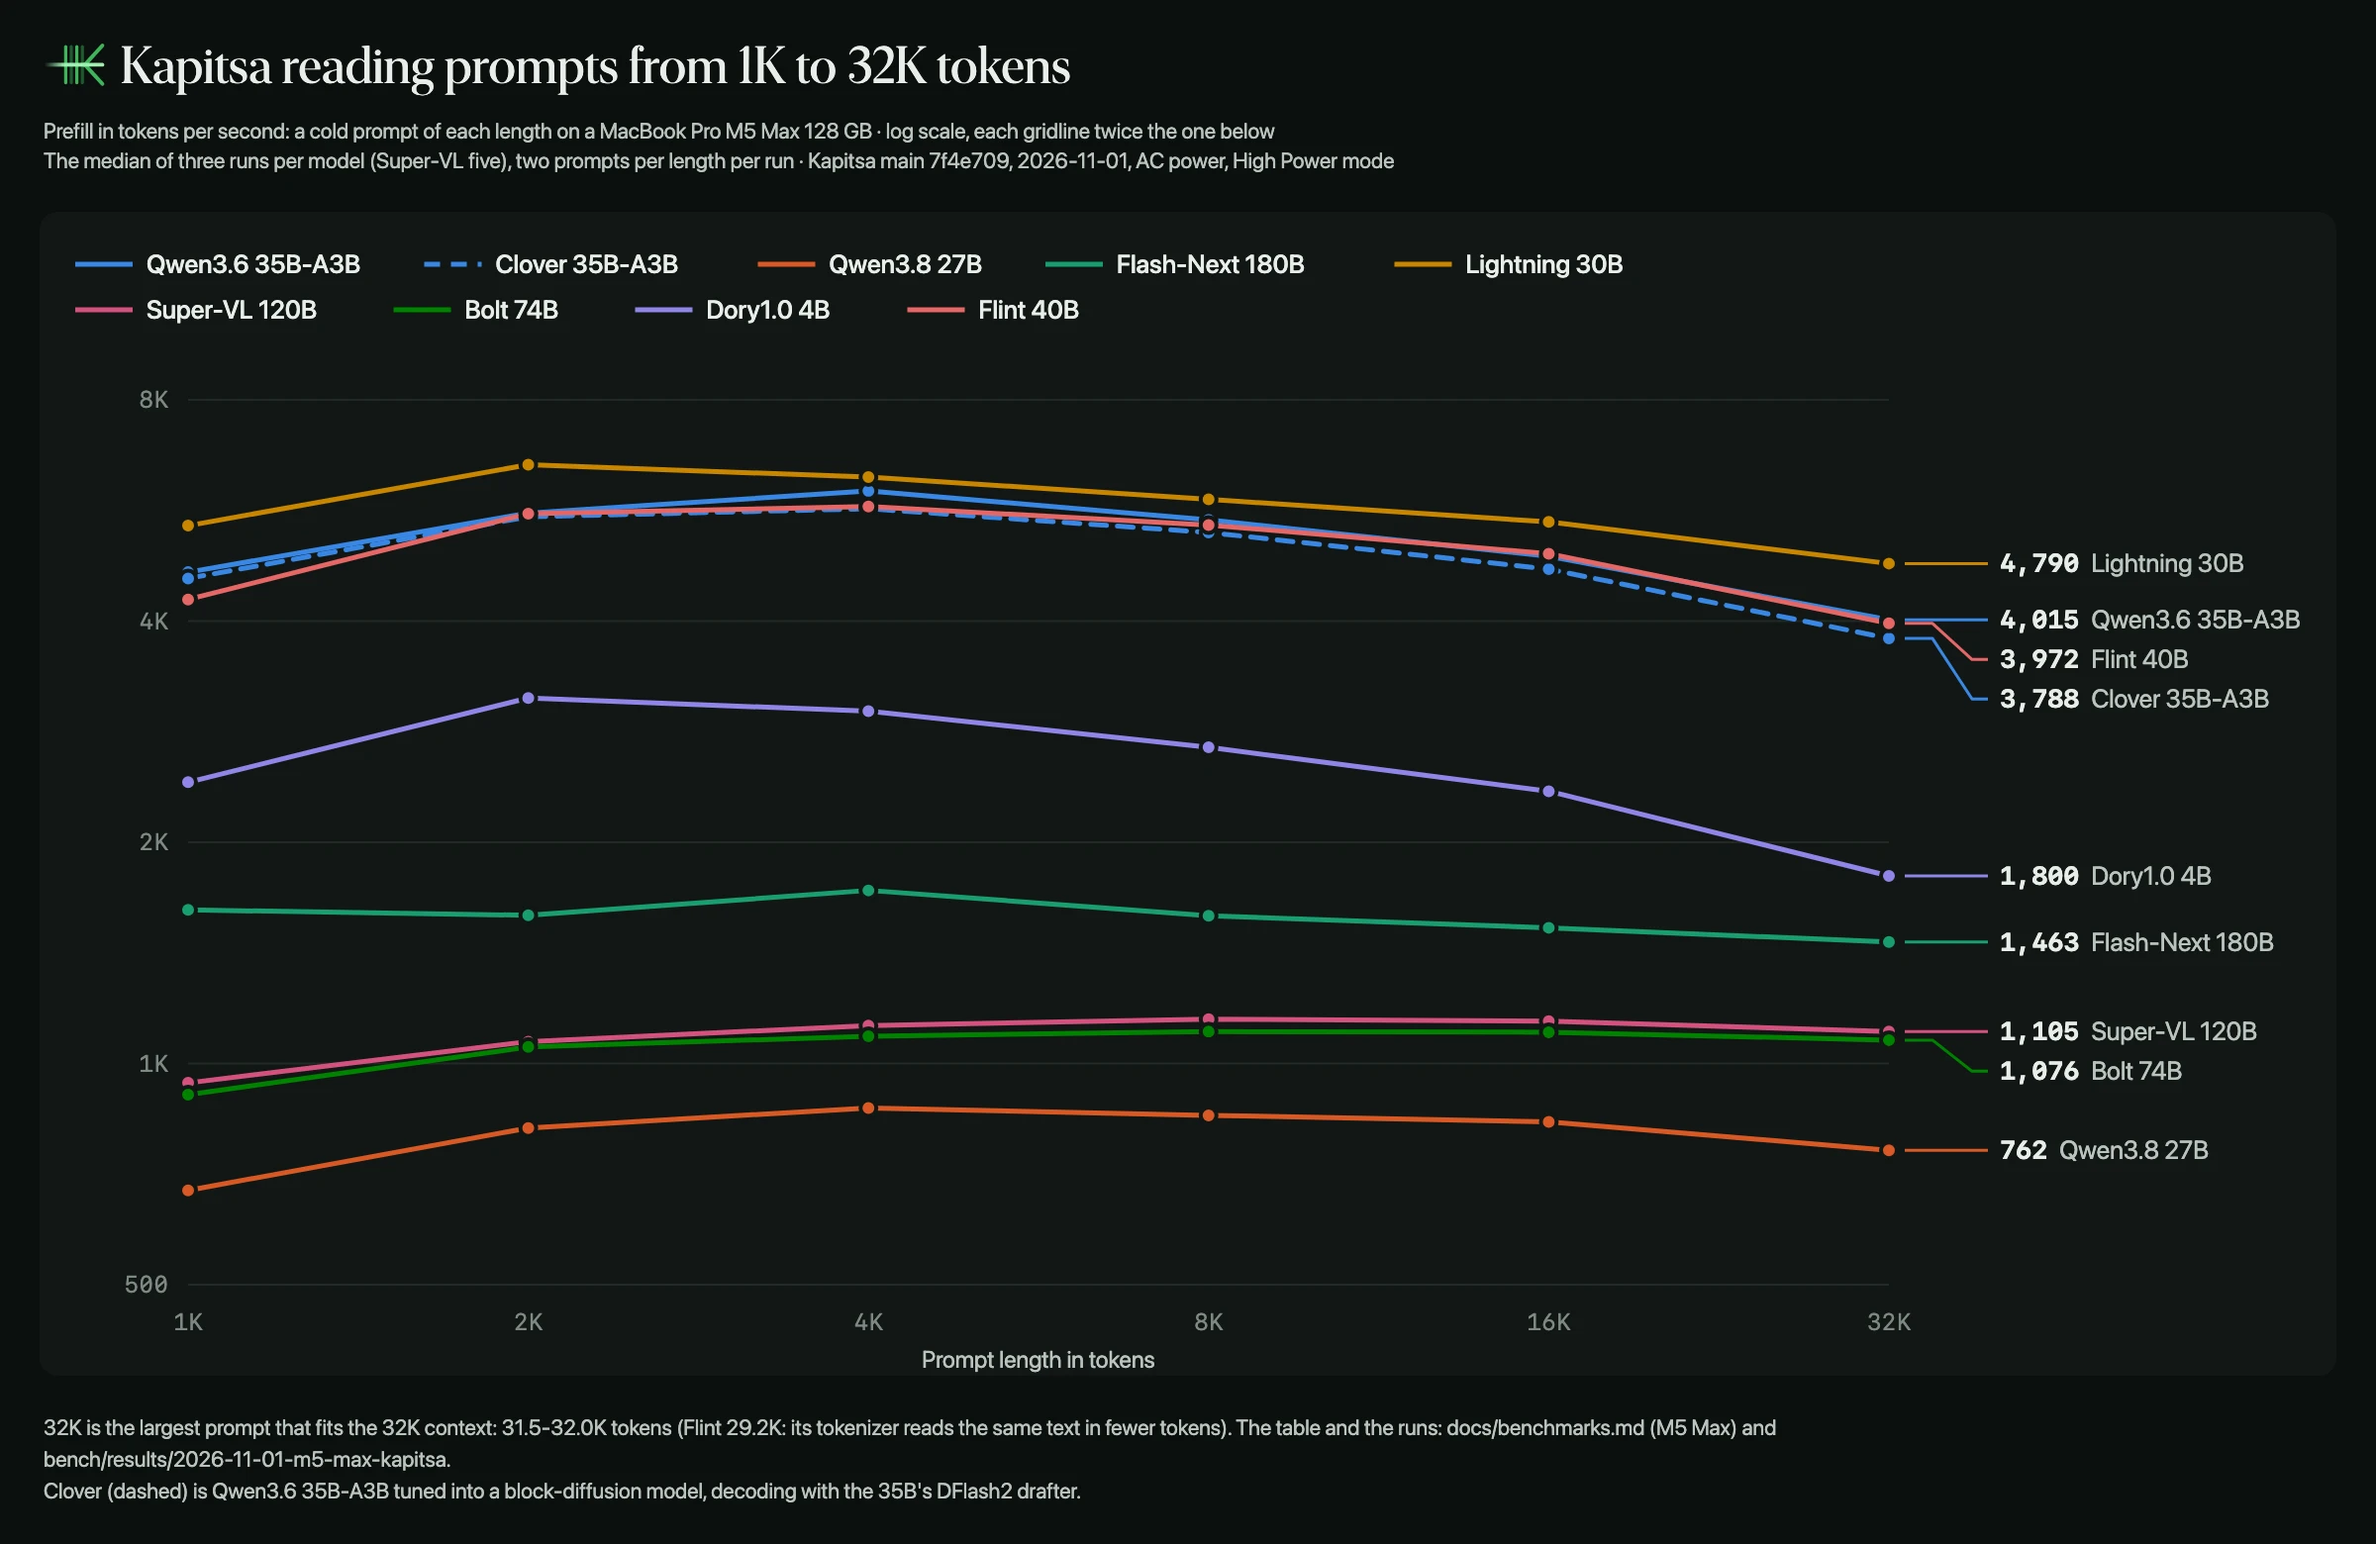
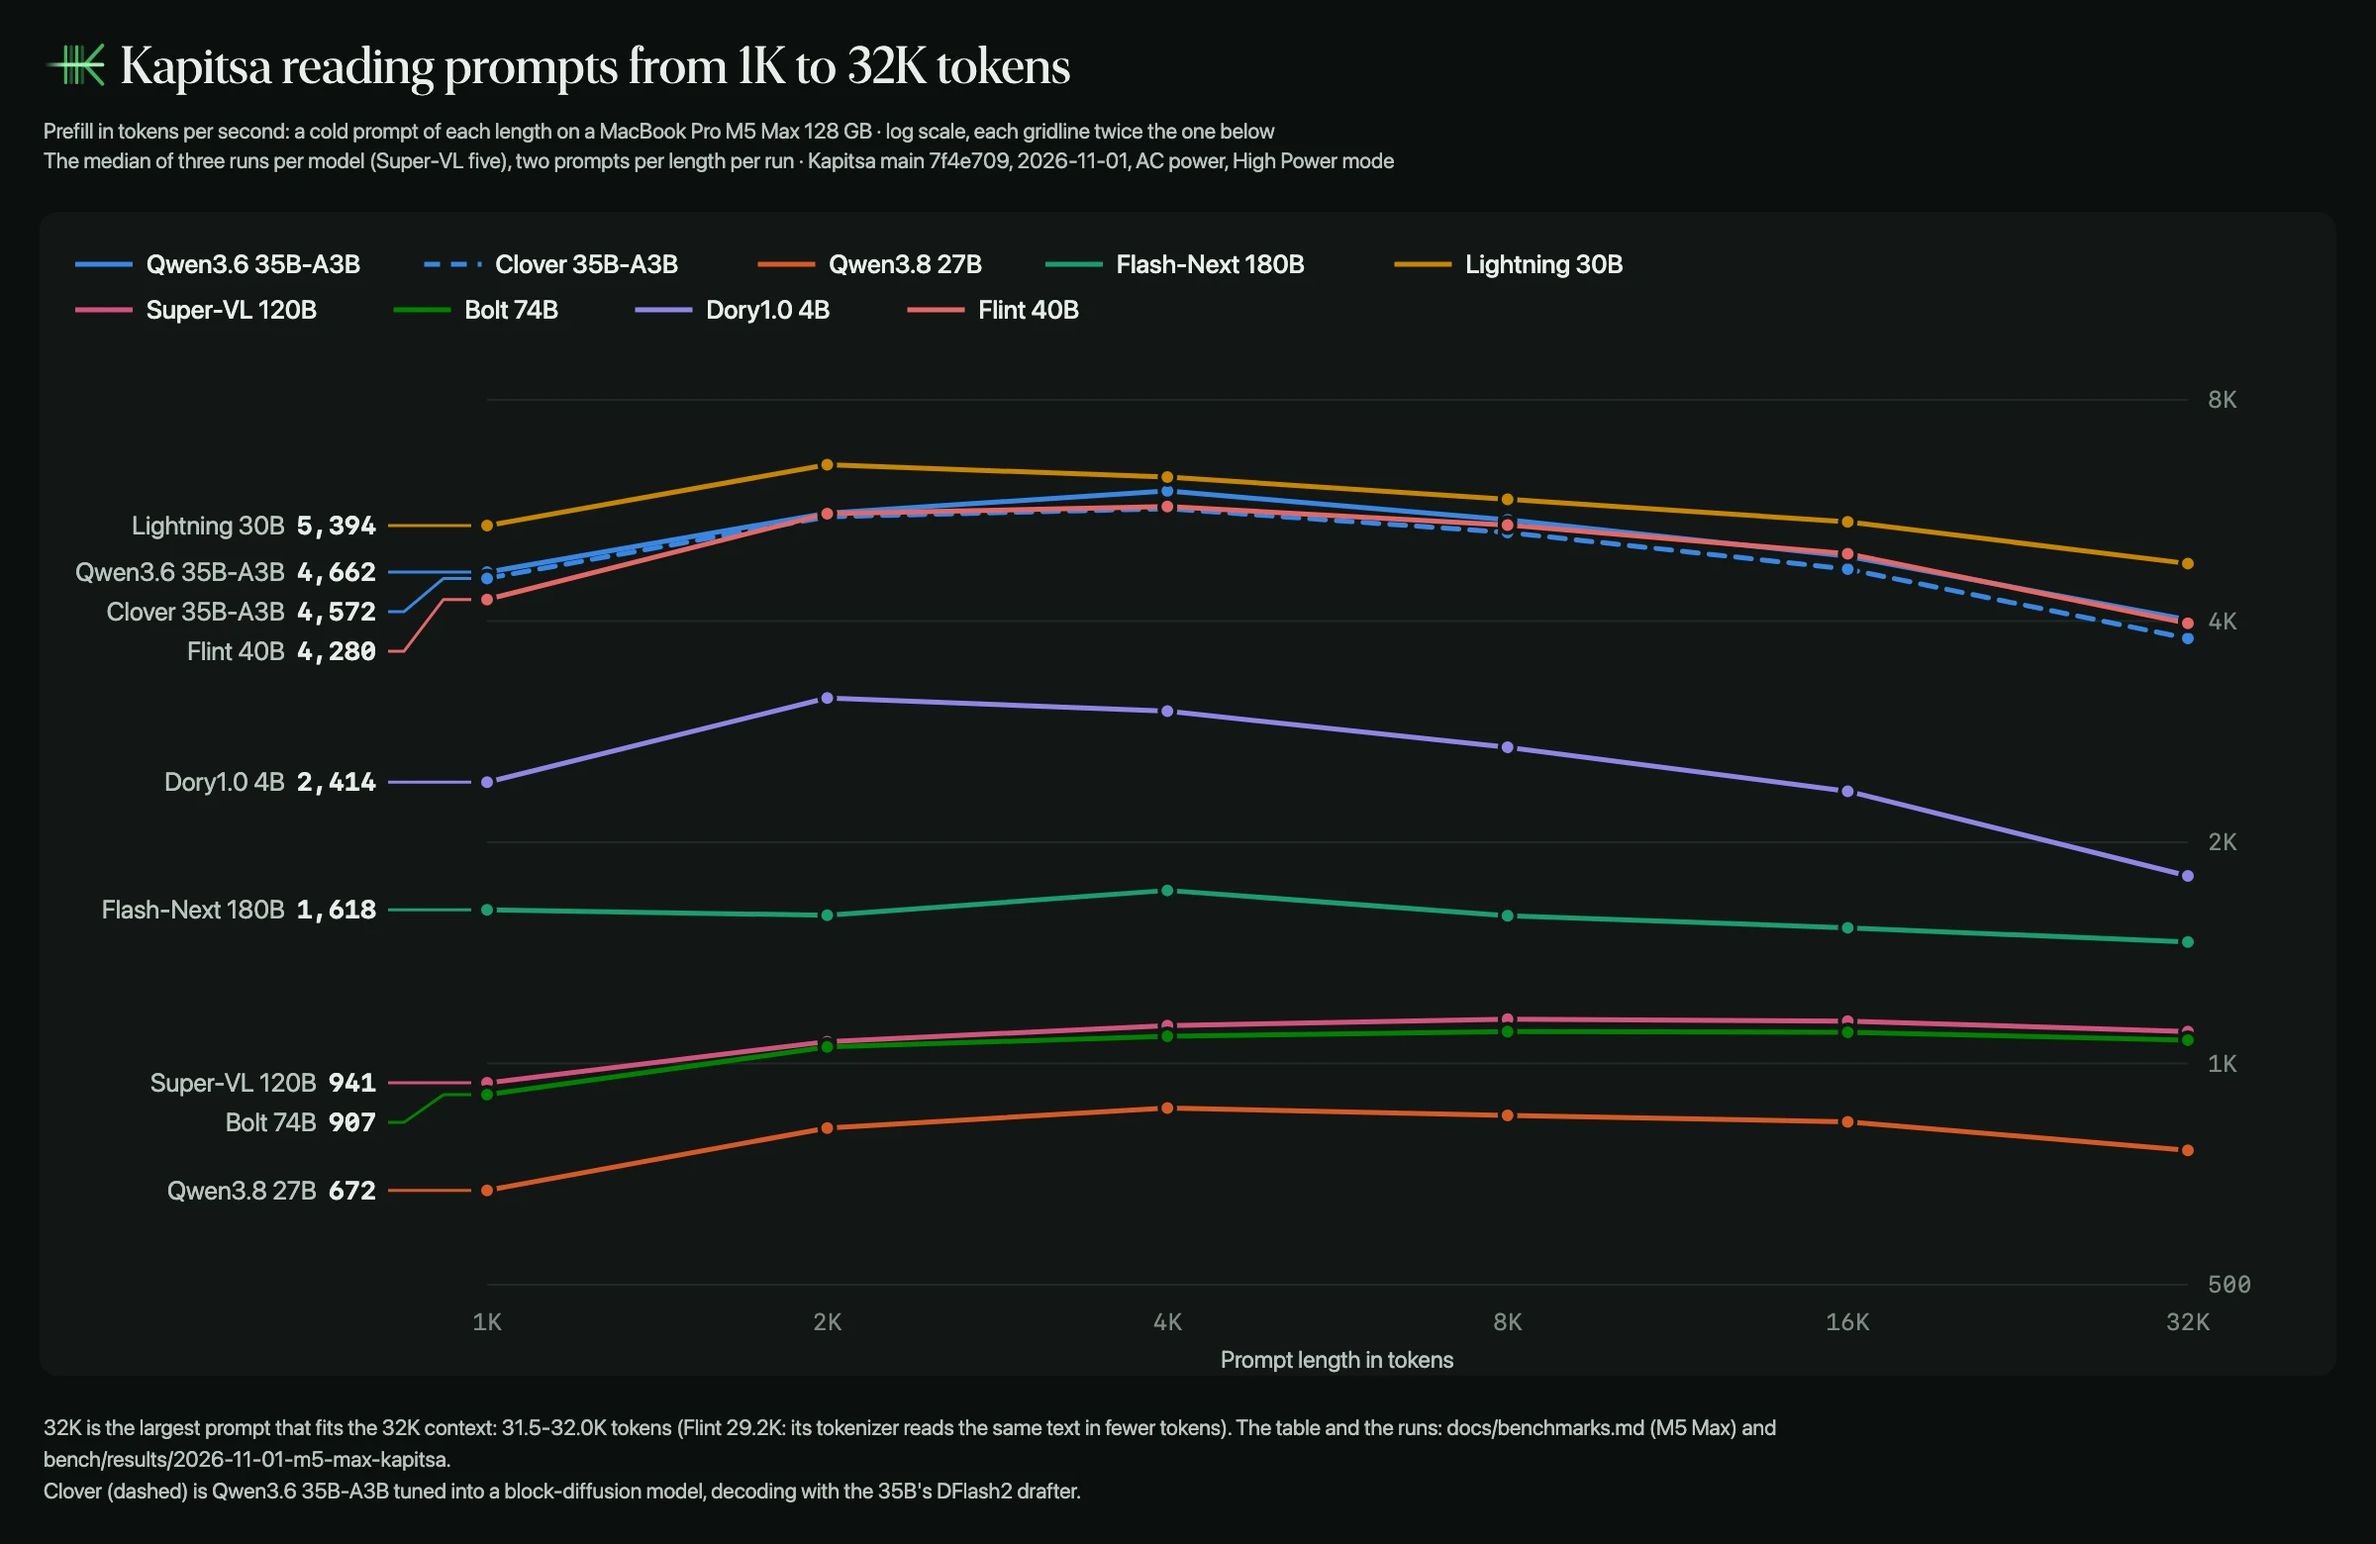
README context charts: each line's model and value at its 1K start, the y axis' values on the right

diff --git a/tools/readme_images/readme_images.py b/tools/readme_images/readme_images.py
@@ -476,7 +476,7 @@ def render(html, w, h, out_webp, tmp):
 SERIES = {"light": ["#2A78D6", "#EB6834", "#1BAF7A", "#EDA100", "#E87BA4", "#008300", "#6250D6", "#E34948"],
           "dark": ["#3987E5", "#D95926", "#199E70", "#C98500", "#D55181", "#008300", "#9085E9", "#E66767"]}
 CTX_H, CTX_PANEL_Y, CTX_PLOT_TOP = 1560, 214, 404     # the chart's height, its panel's top, the plot's top
-CTX_LEFT, CTX_LABELS = 150, 452                       # the y axis' labels, the end labels right of the plot
+CTX_LABELS, CTX_AXIS = 452, 150                       # the start labels left of the plot, the y axis' values right of it
 CTX_LABEL_GAP = 40                                    # the least distance between two end labels
 
 
@@ -497,7 +497,7 @@ def spread(ys, gap, lo, hi):
 
 def context_chart(data, theme, kind):
     """Kapitsa's prefill or decode speed by context length (data["context"]): one line per model on a log scale (each
-    gridline twice the one below), a legend above, each line's model and last value at its end; returns (html, w, h)"""
+    gridline twice the one below), a legend above, each line's first value and model at its start; returns (html, w, h)"""
     t, colors = POSTER[theme], SERIES[theme]
     C = data["context"]
     sizes, models, K = C["sizes"], C["models"], C[kind]
@@ -509,7 +509,7 @@ def context_chart(data, theme, kind):
     per_line = int((W - 2 * 44) / (F_FOOT * FOOT_EM))
     foot = [w for line in K["footer"] for w in textwrap.wrap(line, per_line, break_long_words=False)]
     fy = H - FOOT_PAD - len(foot) * FOOT_LINE
-    left, right = X0 + CTX_LEFT, W - X0 - CTX_LABELS
+    left, right = X0 + CTX_LABELS, W - X0 - CTX_AXIS
     top, bottom = CTX_PLOT_TOP, fy - FOOT_GAP - 92
     lo, hi = math.log2(ticks[0]), math.log2(ticks[-1])
     y = lambda v: bottom - (bottom - top) * (math.log2(v) - lo) / (hi - lo)
@@ -534,7 +534,7 @@ def context_chart(data, theme, kind):
     for v in ticks:                                     # gridlines and their values, then the context sizes
         o.append(f'<line x1="{num(left)}" x2="{num(right)}" y1="{num(y(v))}" y2="{num(y(v))}" '
                  f'stroke="{t["greys"][2]}" stroke-width="2"/>')
-        o.append(text(left - 20, y(v) + 8, compact(v), "mono", 24, t["muted"], "end"))
+        o.append(text(right + 20, y(v) + 8, compact(v), "mono", 24, t["muted"]))
     for j, s in enumerate(sizes):
         o.append(text(x(j), bottom + 46, s, "mono", 24, t["muted"], "middle"))
     o.append(text((left + right) / 2, bottom + 84, K["x_title"], "sans", 24, t["ink2"], "middle"))
@@ -545,14 +545,15 @@ def context_chart(data, theme, kind):
         for j, v in enumerate(m[kind]):
             o.append(f'<circle cx="{num(x(j))}" cy="{num(y(v))}" r="8" fill="{colors[m["slot"]]}" '
                      f'stroke="{t["panel"]}" stroke-width="4"/>')
-    ends = [y(m[kind][-1]) for m in models]             # end labels, spread apart, each led back to its line's end
-    for m, ye, yl in zip(models, ends, spread(ends, CTX_LABEL_GAP, top, bottom)):
-        xe = x(len(sizes) - 1)
-        o.append(f'<polyline points="{num(xe + 16)},{num(ye)} {num(xe + 44)},{num(ye)} {num(xe + 84)},{num(yl)} '
-                 f'{num(xe + 100)},{num(yl)}" fill="none" stroke="{colors[m["slot"]]}" stroke-width="3" '
+    starts = [y(m[kind][0]) for m in models]            # start labels, spread apart, each led to its line's start
+    for m, ys, yl in zip(models, starts, spread(starts, CTX_LABEL_GAP, top, bottom)):
+        xs = x(0)
+        o.append(f'<polyline points="{num(xs - 16)},{num(ys)} {num(xs - 44)},{num(ys)} {num(xs - 84)},{num(yl)} '
+                 f'{num(xs - 100)},{num(yl)}" fill="none" stroke="{colors[m["slot"]]}" stroke-width="3" '
                  f'stroke-linejoin="round"/>')
-        o.append(f'<text x="{num(xe + 112)}" y="{num(yl + 9)}" font-size="26"><tspan class="mono-b" fill="{t["ink"]}">'
-                 f'{m[kind][-1]:,.0f}</tspan><tspan class="sans" fill="{t["ink2"]}" dx="12">{escape(m["model"])}</tspan></text>')
+        o.append(f'<text x="{num(xs - 112)}" y="{num(yl + 9)}" font-size="26" text-anchor="end"><tspan class="sans" '
+                 f'fill="{t["ink2"]}">{escape(m["model"])}</tspan><tspan class="mono-b" fill="{t["ink"]}" dx="12">'
+                 f'{m[kind][0]:,.0f}</tspan></text>')
     for i, s in enumerate(foot):
         o.append(text(44, fy + 16 + i * FOOT_LINE, s, "sans", F_FOOT, t["ink2"]))
 
